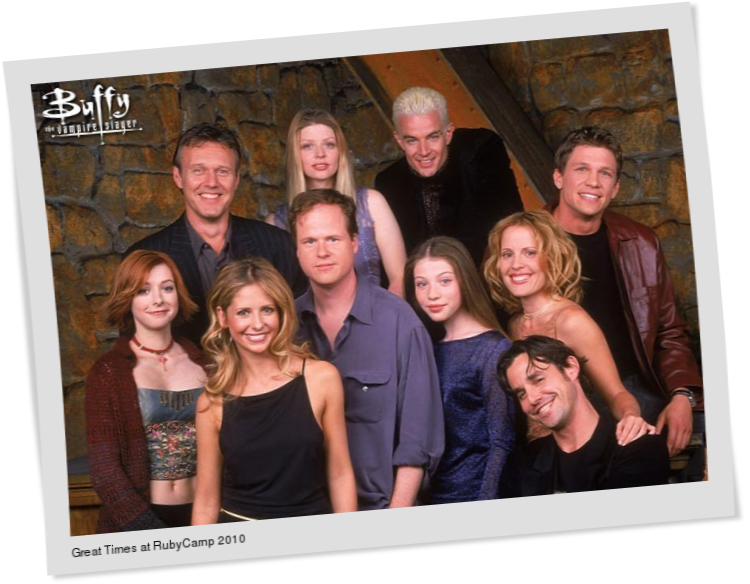
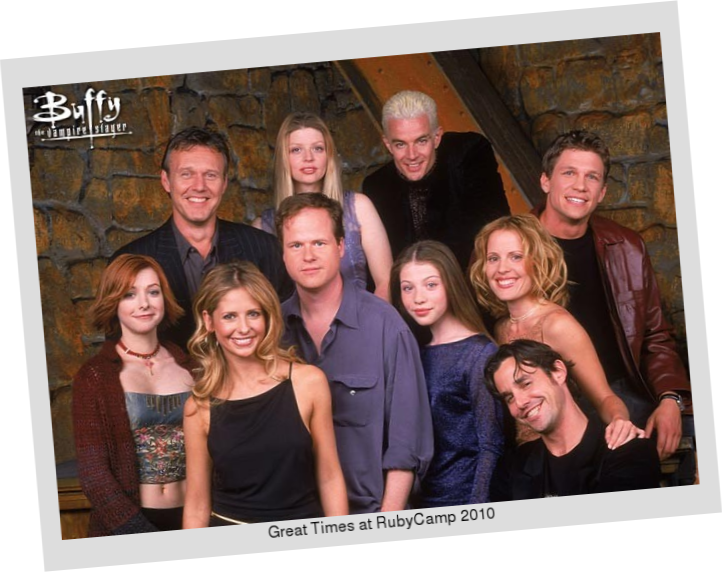
Fixed:

diff --git a/lib/mutable_image.rb b/lib/mutable_image.rb
@@ -55,8 +55,13 @@ class MutableImage
   end
 
   def polaroid
-    @image[:caption] = "Great Times at RubyCamp 2010"
-    @image = @image.polaroid
+    @image = @image.border(20,30,"#ddd")
+    @image = @image.annotate(Magick::Draw.new,0,0,0,10,"Great Times at RubyCamp 2010") {
+      self.gravity = Magick::SouthGravity
+      self.pointsize = 16
+      self.fill = '#000'
+    }
+    @image = @image.rotate(-5)
   end
 
 end
